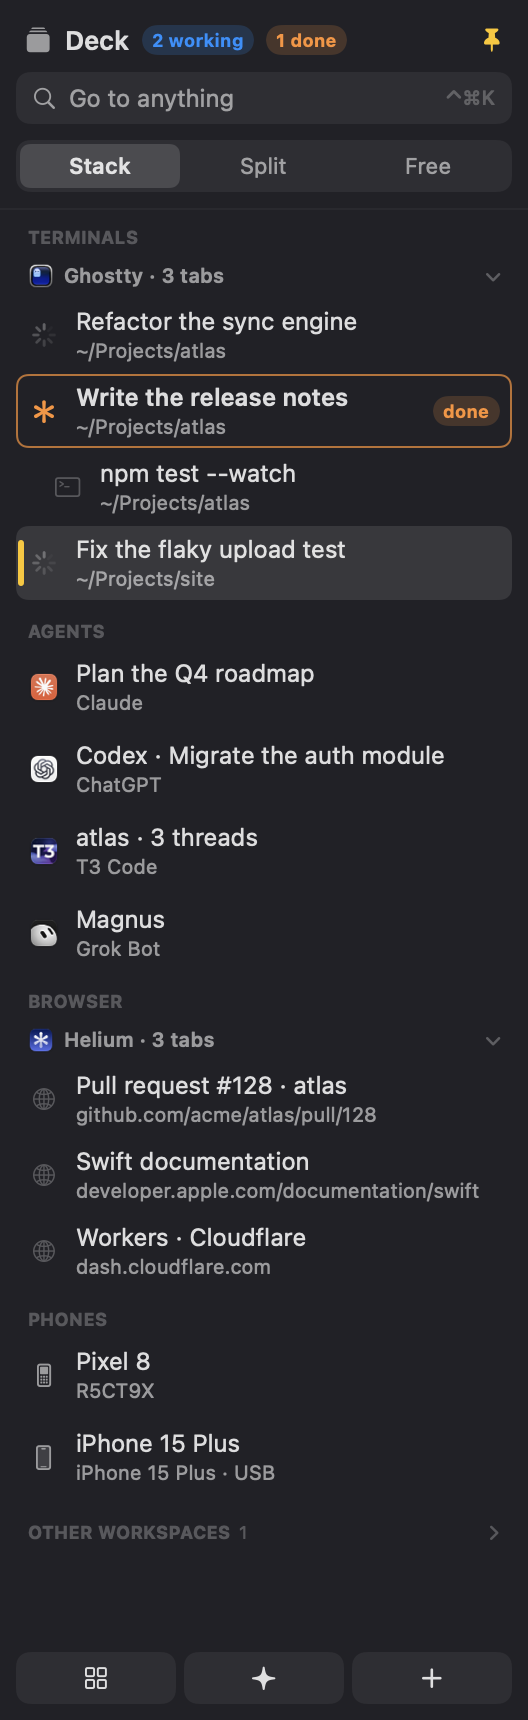
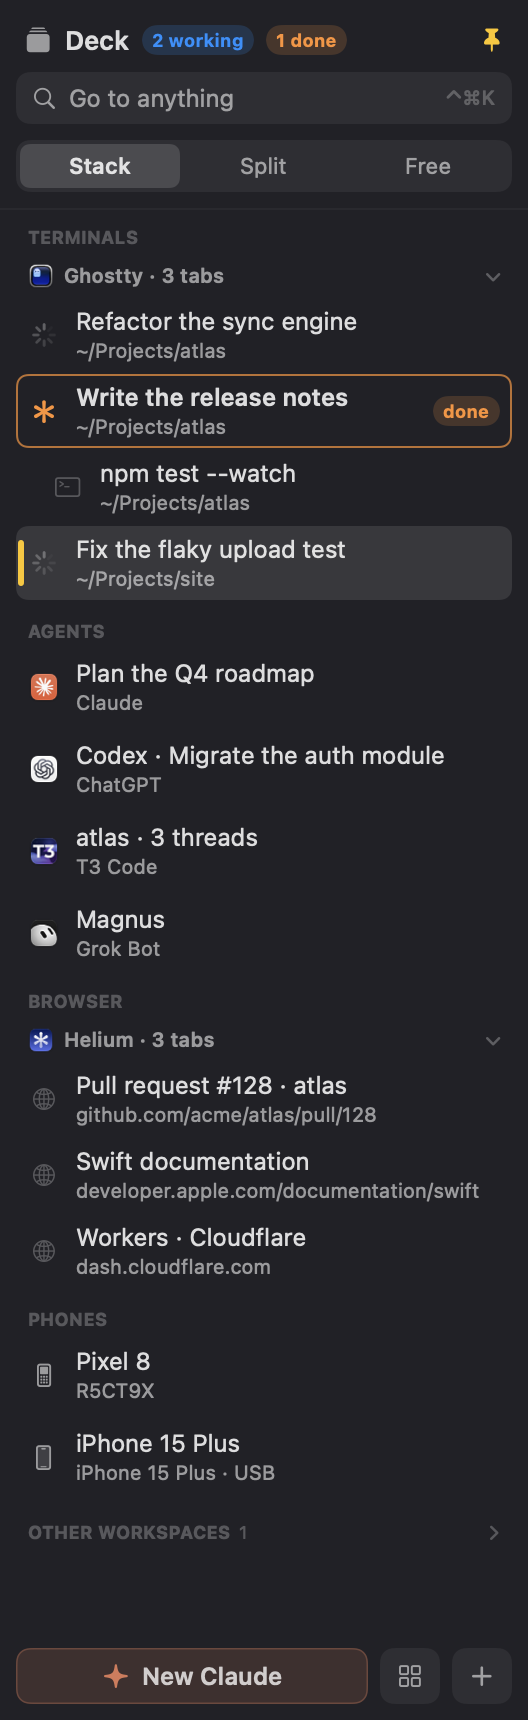
Deck: New Claude leads the toolbar and opens faster
The toolbar's lead button is now a labeled New Claude in Claude's orange,
with Tile and New Terminal compact beside it and a visible press on each.
New Claude tiles into claude-desk's Claude window through a handler in the
compiled Ghostty script, sharing claude-desk's state file, instead of
launching bash and osascript and compiling the script on every press
(about 160-220 ms). claude-desk stays the fallback.

diff --git a/Sources/BaneySpaces/Deck/Sidebar.swift b/Sources/BaneySpaces/Deck/Sidebar.swift
@@ -11,6 +11,8 @@ final class DeckModel: ObservableObject {
     @Published var layout: Deck.Layout = .stack
     @Published var collapsed: Set<String> = []
     @Published var hooksInstalled = true
+    /// A new Claude session's pane is on its way.
+    @Published var claudeOpening = false
 
     var onFocus: (Item) -> Void = { _ in }
     var onClose: (Item, Engine.CloseWhat) -> Void = { _, _ in }
@@ -154,11 +156,14 @@ struct SidebarView: View {
         }
     }
 
+    /// New Claude leads, named and in Claude's color: three equal gray icons made the action
+    /// you reach for most look like the other two.
     var toolbar: some View {
-        HStack(spacing: 4) {
-            ToolButton(symbol: "square.grid.2x2", help: "Tile every window on this screen (⌘⇧C in a terminal)", id: "deck.tile", action: model.onTile)
-            ToolButton(symbol: "sparkle", help: "New Claude Code session", id: "deck.new-claude", action: model.onNewClaude)
-            ToolButton(symbol: "plus", help: "New terminal in this folder", id: "deck.new-terminal", action: model.onNewTerminal)
+        HStack(spacing: 6) {
+            NewClaudeButton(opening: model.claudeOpening, action: model.onNewClaude)
+            ToolButton(symbol: "square.grid.2x2", help: "Tile every window on this screen (⌘⇧C in a terminal)", id: "deck.tile",
+                       width: 30, action: model.onTile)
+            ToolButton(symbol: "plus", help: "New terminal in this folder", id: "deck.new-terminal", width: 30, action: model.onNewTerminal)
         }
         .padding(8)
     }
@@ -453,16 +458,65 @@ struct ToolButton: View {
     let symbol: String
     let help: String
     let id: String
+    /// Fixed, or nil to share the row's width.
+    var width: CGFloat? = nil
     let action: () -> Void
     @State private var hover = false
     var body: some View {
         Button(action: action) {
             Image(systemName: symbol).font(.system(size: 12, weight: .medium))
-                .frame(maxWidth: .infinity, minHeight: 26)
+                .foregroundStyle(hover ? Color.primary : Color.secondary)
+                .frame(width: width, height: 28).frame(maxWidth: width == nil ? .infinity : nil)
                 .background(RoundedRectangle(cornerRadius: DeckStyle.radius).fill(Color.primary.opacity(hover ? 0.14 : 0.07)))
+                .contentShape(Rectangle())
         }
-        .buttonStyle(.plain).help(help).onHover { hover = $0 }
+        .buttonStyle(DeckPress()).help(help).onHover { hover = $0 }
         .accessibilityLabel(help).accessibilityIdentifier(id)
+    }
+}
+
+/// The toolbar's lead button: a new Claude Code session, tiled into the Claude window like ⌘⇧A.
+/// Until its pane is up the sparkle turns into a spinner, and a second press waits.
+struct NewClaudeButton: View {
+    let opening: Bool
+    let action: () -> Void
+    @State private var hover = false
+    /// Anthropic's Claude orange, so the button reads as Claude's at a glance.
+    static let claude = Color(red: 0.85, green: 0.47, blue: 0.34)
+
+    var body: some View {
+        Button(action: action) {
+            HStack(spacing: 6) {
+                ZStack {
+                    if opening {
+                        ProgressView().controlSize(.small).scaleEffect(0.6)
+                    } else {
+                        Image(systemName: "sparkle").font(.system(size: 12, weight: .semibold)).foregroundStyle(Self.claude)
+                    }
+                }
+                .frame(width: 14, height: 14)
+                Text(opening ? "Opening…" : "New Claude").font(.system(size: 12, weight: .semibold))
+                    .foregroundStyle(Color.primary.opacity(opening ? 0.6 : 0.9))
+            }
+            .frame(maxWidth: .infinity, minHeight: 28)
+            .background(RoundedRectangle(cornerRadius: DeckStyle.radius).fill(Self.claude.opacity(hover ? 0.26 : 0.16)))
+            .overlay(RoundedRectangle(cornerRadius: DeckStyle.radius).strokeBorder(Self.claude.opacity(hover ? 0.55 : 0.32), lineWidth: 0.75))
+            .contentShape(Rectangle())
+        }
+        .buttonStyle(DeckPress()).disabled(opening).onHover { hover = $0 }
+        .help("New Claude Code session, tiled into your Claude window")
+        .accessibilityLabel(opening ? "Opening a Claude Code session" : "New Claude Code session")
+        .accessibilityIdentifier("deck.new-claude")
+    }
+}
+
+/// A press you can see: the button settles a little while held, and springs back.
+struct DeckPress: ButtonStyle {
+    func makeBody(configuration: Configuration) -> some View {
+        configuration.label
+            .scaleEffect(configuration.isPressed ? 0.96 : 1)
+            .brightness(configuration.isPressed ? -0.04 : 0)
+            .animation(.spring(response: 0.18, dampingFraction: 0.7), value: configuration.isPressed)
     }
 }
 

diff --git a/Sources/BaneySpaces/Deck/Scripts.swift b/Sources/BaneySpaces/Deck/Scripts.swift
@@ -167,6 +167,86 @@ enum Scripts {
         	end tell
         	return "ok"
         end newWindow
+
+        -- claude-desk's tiling (~/.local/bin/claude-desk), compiled once here so the Deck's button
+        -- skips bash, osascript and the compile. `prior` is its state file: the Claude tab's ID,
+        -- then the terminals it made there. Returns the new state.
+        --   1st  a screen-filling window   2nd  split right   3rd  left pane down
+        --   4th  right pane down           5th  a new tab, and the grid starts again
+        on claudeTile(workDir, paneCmd, prior)
+        	set AppleScript's text item delimiters to linefeed
+        	set rows to text items of prior
+        	set AppleScript's text item delimiters to ""
+        	set tabID to ""
+        	set known to {}
+        	repeat with l in rows
+        		if (contents of l) is not "" then
+        			if tabID is "" then
+        				set tabID to contents of l
+        			else
+        				set end of known to (contents of l)
+        			end if
+        		end if
+        	end repeat
+        	with timeout of 10 seconds
+        		tell application id "com.mitchellh.ghostty"
+        			activate
+        			set cfg to new surface configuration
+        			set initial working directory of cfg to workDir
+        			set command of cfg to paneCmd
+        			set targetTab to missing value
+        			set targetWindow to missing value
+        			if tabID is not "" then
+        				repeat with w in windows
+        					repeat with t in tabs of w
+        						if (id of t) is tabID then
+        							set targetTab to contents of t
+        							set targetWindow to contents of w
+        						end if
+        					end repeat
+        				end repeat
+        			end if
+        			if targetTab is missing value then
+        				set w to new window with configuration cfg
+        				set t to selected tab of w
+        				perform action "toggle_maximize" on focused terminal of t
+        				return my joinLines({id of t, id of focused terminal of t})
+        			end if
+        			set liveIDs to {}
+        			set present to id of every terminal of targetTab
+        			repeat with k in known
+        				if present contains (contents of k) then set end of liveIDs to (contents of k)
+        			end repeat
+        			set n to count of liveIDs
+        			if n is 0 or n ≥ 4 then
+        				set t to new tab in targetWindow with configuration cfg
+        				return my joinLines({id of t, id of focused terminal of t})
+        			end if
+        			if n is 1 then
+        				set baseID to item 1 of liveIDs
+        				set dir to right
+        			else if n is 2 then
+        				set baseID to item 1 of liveIDs
+        				set dir to down
+        			else
+        				set baseID to item 2 of liveIDs
+        				set dir to down
+        			end if
+        			set base to first terminal of targetTab whose id is baseID
+        			set newTerm to split base direction dir with configuration cfg
+        			perform action "equalize_splits" on newTerm
+        			focus newTerm
+        			return my joinLines({tabID} & liveIDs & {id of newTerm})
+        		end tell
+        	end timeout
+        end claudeTile
+
+        on joinLines(xs)
+        	set AppleScript's text item delimiters to linefeed
+        	set s to xs as text
+        	set AppleScript's text item delimiters to ""
+        	return s
+        end joinLines
         """)
     }
 

diff --git a/Sources/BaneySpaces/Deck/DeckController.swift b/Sources/BaneySpaces/Deck/DeckController.swift
@@ -446,15 +446,40 @@ final class DeckController {
         if palette.isOpen { palette.dismiss() } else { palette.show(on: DeckLayout.activeScreen()) }
     }
 
+    /// The sparkle button and the switcher's "New Claude session": another session tiled into
+    /// `claude-desk`'s Claude window, through the Ghostty script compiled here. Running
+    /// `claude-desk` itself cost a bash and an `osascript` launch plus a 90 to 150 ms compile on every
+    /// press. It stays the fallback when Ghostty can't be scripted yet, and a plain terminal running
+    /// `claude` without it.
     func newClaude() {
+        guard !model.claudeOpening else { return }
         let desk = NSHomeDirectory() + "/.local/bin/claude-desk"
-        if FileManager.default.isExecutableFile(atPath: desk) {
+        let hasDesk = FileManager.default.isExecutableFile(atPath: desk)
+        guard hasDesk else {
+            let dir = engine.items.first { $0.focused && !$0.directory.isEmpty }?.directory
+            return engine.newTerminal(in: dir, command: "claude")
+        }
+        let ghostty = Catalog.known[0]
+        guard Automation.allowed(ghostty.bundleID), let script = engine.script(for: ghostty) else {
             let p = Process()
             p.executableURL = URL(fileURLWithPath: desk)
             try? p.run()
-        } else {
-            let dir = engine.items.first { $0.focused && !$0.directory.isEmpty }?.directory
-            engine.newTerminal(in: dir, command: "claude")
+            return
+        }
+        model.claudeOpening = true
+        OSA.queue.async { [weak self] in
+            let out = script.call("claudeTile", [ClaudeDesk.workDir, ClaudeDesk.paneCommand, ClaudeDesk.read().joined(separator: "\n")])
+            if let out { ClaudeDesk.write(ClaudeDesk.parse(out)) }
+            DispatchQueue.main.async {
+                guard let self else { return }
+                self.model.claudeOpening = false
+                // The script failed (Ghostty mid-launch, say): claude-desk tries the same thing.
+                if out == nil {
+                    let p = Process()
+                    p.executableURL = URL(fileURLWithPath: desk)
+                    try? p.run()
+                }
+            }
         }
     }
 

diff --git a/Sources/BaneySpacesCore/Deck/ClaudeDesk.swift b/Sources/BaneySpacesCore/Deck/ClaudeDesk.swift
@@ -1,0 +1,32 @@
+import Foundation
+
+/// The Claude tab that `claude-desk` (⌘⇧A) tiles sessions into, and the terminals it made there:
+/// the tab's ID on the first line, then one terminal ID per line, in creation order, in
+/// `~/.local/state/claude-desk/tiles`. The Deck's sparkle button reads and writes the same file, so
+/// either one adds the next tile to the same grid.
+public enum ClaudeDesk {
+    public static var stateFile: URL {
+        FileManager.default.homeDirectoryForCurrentUser.appendingPathComponent(".local/state/claude-desk/tiles")
+    }
+    /// Where a new session starts, as `claude-desk` has it.
+    public static var workDir: String { FileManager.default.homeDirectoryForCurrentUser.appendingPathComponent("Projects").path }
+    /// Claude in an interactive login shell, which loads the PATH and keys `.zshrc` exports for its
+    /// tools; when Claude exits, the pane drops to a shell instead of closing.
+    public static let paneCommand = "/bin/zsh -lic 'claude; exec /bin/zsh -l'"
+
+    /// The file's lines, blanks dropped.
+    public static func parse(_ text: String) -> [String] {
+        text.split(whereSeparator: \.isNewline).map { $0.trimmingCharacters(in: .whitespaces) }.filter { !$0.isEmpty }
+    }
+
+    public static func read() -> [String] {
+        (try? String(contentsOf: stateFile, encoding: .utf8)).map(parse) ?? []
+    }
+
+    /// Saves what the tiling script returned; nothing when it returned nothing.
+    public static func write(_ lines: [String]) {
+        guard !lines.isEmpty else { return }
+        try? FileManager.default.createDirectory(at: stateFile.deletingLastPathComponent(), withIntermediateDirectories: true)
+        try? (lines.joined(separator: "\n") + "\n").write(to: stateFile, atomically: true, encoding: .utf8)
+    }
+}

diff --git a/Tests/BaneySpacesCoreTests/Deck_MultitaskTests.swift b/Tests/BaneySpacesCoreTests/Deck_MultitaskTests.swift
@@ -106,3 +106,17 @@ final class CorrelationTests: XCTestCase {
         XCTAssertEqual(Array(a.resolve([g("C", "✳ new")], now: 3).keys), ["C"])
     }
 }
+
+final class ClaudeDeskTests: XCTestCase {
+    func testReadsTheFileClaudeDeskWrites() {
+        // claude-desk writes `printf '%s\n'` of the script's lines.
+        XCTAssertEqual(ClaudeDesk.parse("tab-1\nterm-a\nterm-b\n"), ["tab-1", "term-a", "term-b"])
+        XCTAssertEqual(ClaudeDesk.parse("\n  tab-1 \n\n"), ["tab-1"])
+        XCTAssertEqual(ClaudeDesk.parse(""), [])
+    }
+
+    func testRunsClaudeTheWayClaudeDeskDoes() {
+        XCTAssertEqual(ClaudeDesk.paneCommand, "/bin/zsh -lic 'claude; exec /bin/zsh -l'",
+                       "-i loads .zshrc, whose PATH and keys Claude's tools need")
+    }
+}

diff --git a/CHANGELOG.md b/CHANGELOG.md
@@ -2,6 +2,13 @@
 
 ## Unreleased
 
+- **New Claude, front and center, and quicker.** The Deck's toolbar led with three identical gray
+  icons. Now "New Claude" leads in Claude's orange, with Tile and New Terminal as small buttons
+  beside it, and every button gives under the press. The session still tiles into your Claude
+  window the way ⌘⇧A does, sharing its state, but through a script BaneySpaces compiled once.
+  Running `claude-desk` cost a shell, an `osascript` launch and a fresh compile, about 160 to 220 ms,
+  on every press. Until the pane is up the button reads "Opening…" and a second press waits.
+
 - **Drag a window down to the dock to move it to another workspace.** Pulling a window by its
   title bar to the bottom edge used to do nothing: the dock stayed down while the button was held.
   Now it comes up for the window, the tile under the pointer lights, and the label says where it's
